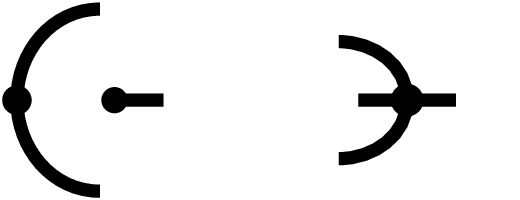
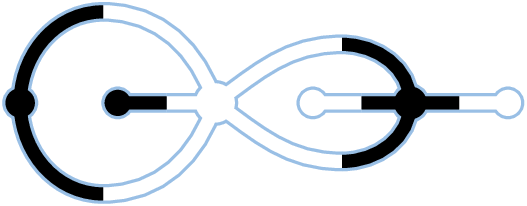
Put ribbon outline on back layer

Changed region(s): [[0.0, 0.0, 1.0, 0.99], [0.5231, 0.75, 0.5538, 0.78]]

diff --git a/figures/thick_dessin_image.tex b/figures/thick_dessin_image.tex
@@ -6,13 +6,28 @@
 \definecolor{page}{HTML}{b8e5fe}
 \definecolor{outline}{rgb}{0.6, 0.75, 0.9}
 
-\makeatletter
+\makeatletter %@@@@@@@@@
 
 \@ifundefined{tsp}{\pagecolor{page}}{}
 
 \tikzset{nopreaction/.code=\let\tikz@preactions\pgfutil@empty}
 
-\makeatother
+\pgfkeys{%
+  /tikz/on layer/.code={
+    \pgfonlayer{#1}\begingroup
+    \aftergroup\endpgfonlayer
+    \aftergroup\endgroup
+  },
+  /tikz/node on layer/.code={
+    \pgfonlayer{#1}\begingroup
+    \expandafter\def\expandafter\tikz@node@finish\expandafter{\expandafter\endgroup\expandafter\endpgfonlayer\tikz@node@finish}%
+  },
+}
+
+\makeatother %@@@@@@@@@
+
+\pgfdeclarelayer{back}
+\pgfsetlayers{back, main}
 
 \begin{document}
 \begin{tikzpicture}[
@@ -22,7 +37,7 @@
 \newcommand{\hsep}{1.5}
 
 % vertices
-\begin{scope}[every node/.style={preaction={draw, line width=1mm, outline, nopreaction}}]
+\begin{scope}[every node/.style={preaction={draw, on layer=back, line width=1mm, outline, nopreaction}}]
 \node[vwhite, minimum width=6mm] (v2) at (2*\hsep, 0) {};
 \node[vwhite, minimum width=4mm] (v3) at (3*\hsep, 0) {};
 \node[vwhite, minimum width=4mm] (v5) at (5*\hsep, 0) {};
@@ -41,7 +56,7 @@
 \coordinate (m24b) at (3.3*\hsep, -0.9) {};
 
 % edges
-\begin{scope}[line width=2mm, every path/.style={preaction={draw, line width=3mm, outline, nopreaction}}]
+\begin{scope}[line width=2mm, every path/.style={preaction={draw, on layer=back, line width=3mm, outline, nopreaction}}]
 \begin{scope}[white]
 \draw (v2.center) -- (m21);
 \draw (v3.center) -- (m34);
